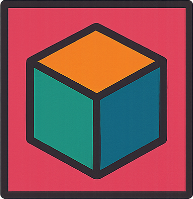
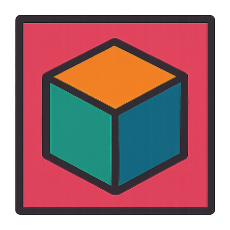
menu bar format buttons ok now

diff --git a/components/menu_bar/menu_bar.css b/components/menu_bar/menu_bar.css
@@ -6,14 +6,19 @@
   height: 44px;
   cursor: pointer;
   transition: border 0.15s;
+  display: flex;
+  justify-content: center;
+  align-items: center;
 }
 .orientation-btn.selected {
   border: 2px solid #1976d2;
   background: #e3f0ff;
 }
 .orientation-img {
-  width: 32px;
-  height: 32px;
+  max-width: 32px;
+  max-height: 32px;
+  width: auto;
+  height: auto;
   display: block;
   filter: grayscale(100%) contrast(0.7);
   transition: filter 0.15s;